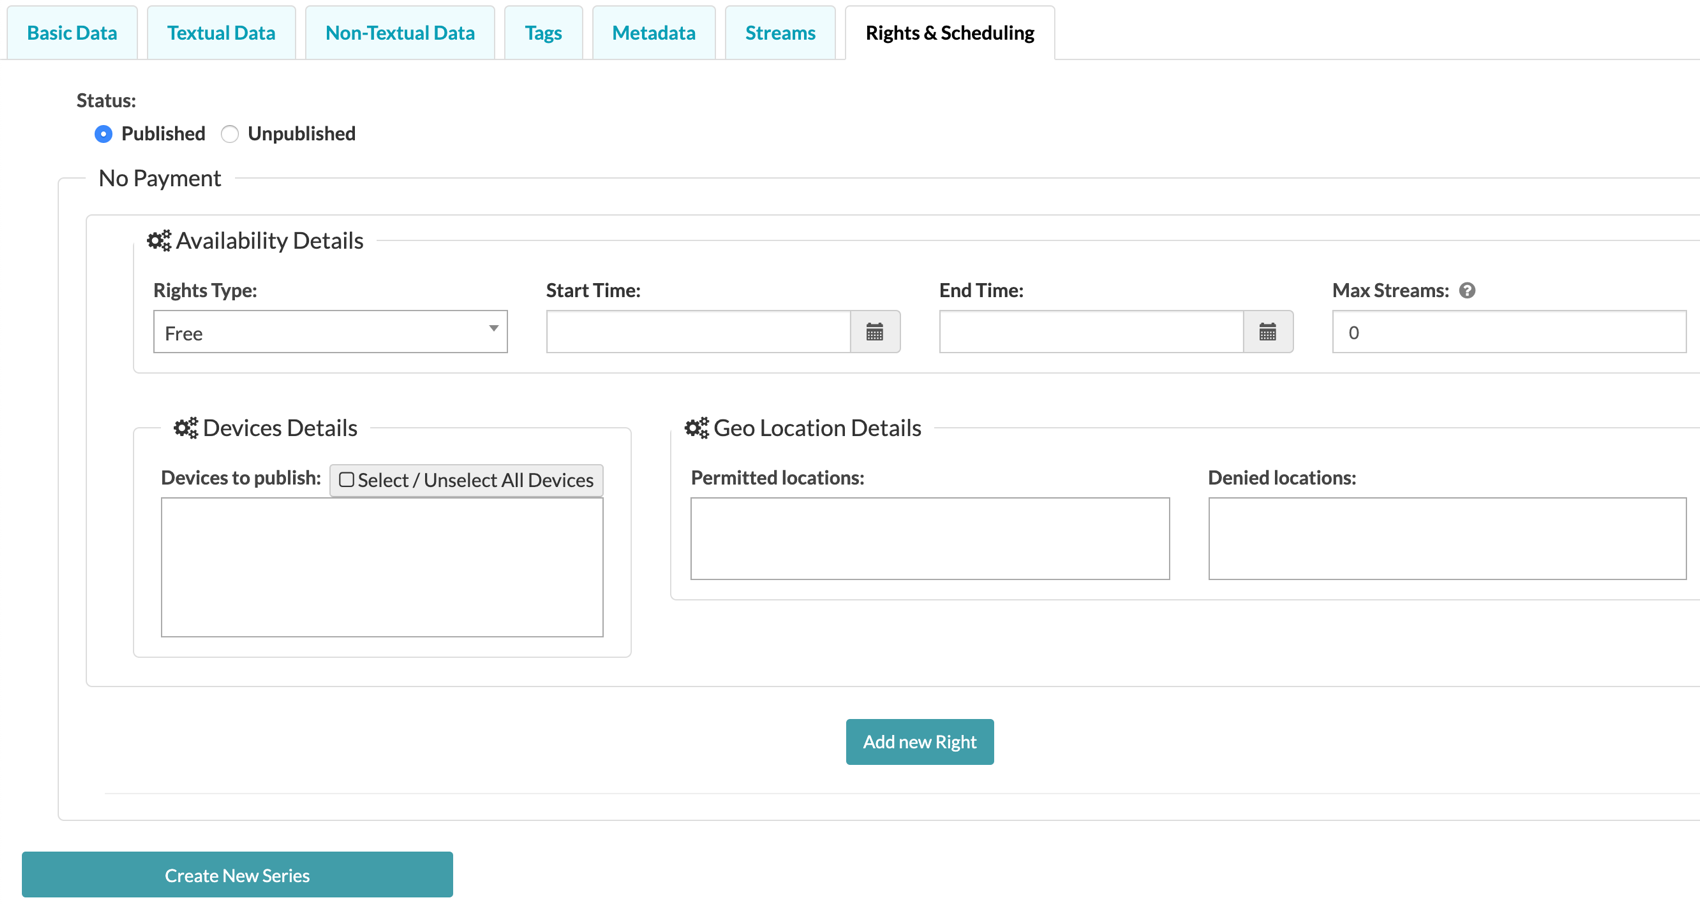
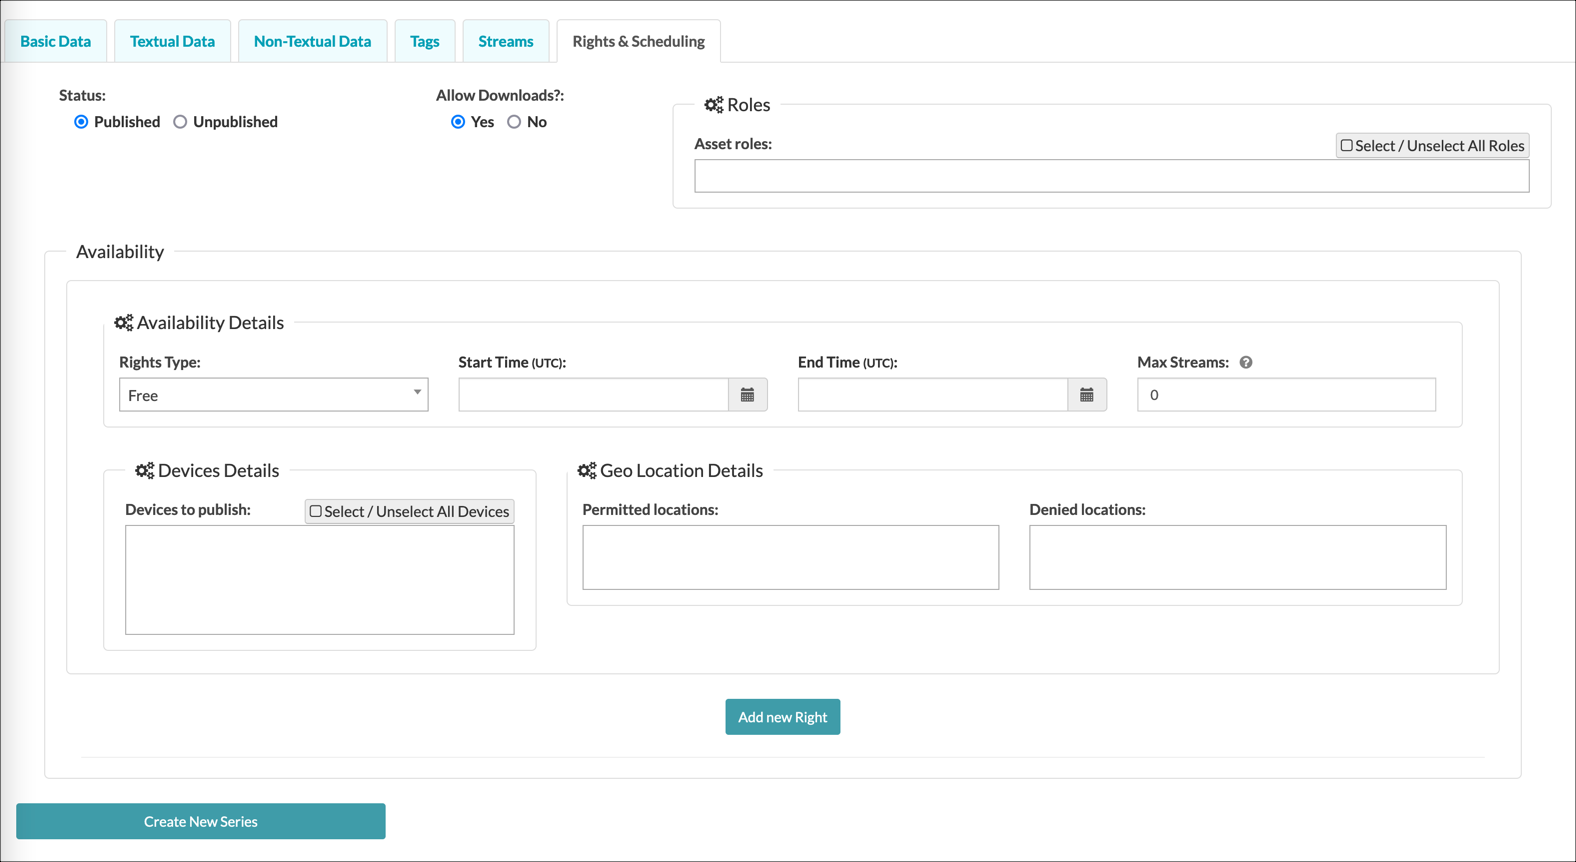
update series rights

diff --git a/_site/using-brightcove-beacon/series-seasons-episodes.html b/_site/using-brightcove-beacon/series-seasons-episodes.html
@@ -1138,6 +1138,20 @@ function doGTranslate(lang_pair) {if(lang_pair.value)lang_pair=lang_pair.value;i
                             </td>
                         </tr>
                         <tr>
+                          <td>Allow Downloads</td>
+                          <td>Yes</td>
+                          <td>
+                              Set to Yes to allow this series to be downloaded by the user for offline playback. For details, see the <a href="https://beacon-help.support.brightcove.com/media/offline-playback-beacon.html">Offline Playback with Brightcove Beacon Apps</a> document.
+                          </td>
+                        </tr>
+                        <tr>
+                          <td>Asset roles</td>
+                          <td>No</td>
+                          <td>
+                              Associate user roles with this series. Contact your account manager if you are interested in this feature. For details, see the <a href="/using-brightcove-beacon/roles-as-rights.html">Controlling Viewer Access with Roles</a> document.
+                          </td>
+                        </tr>
+                        <tr>
                             <td>Rights Type</td>
                             <td>Yes</td>
                             <td>
@@ -1563,7 +1577,7 @@ function doGTranslate(lang_pair) {if(lang_pair.value)lang_pair=lang_pair.value;i
 
 <hr>
 <div class="last-updated">
-  Page last updated on 19 Jun 2021
+  Page last updated on 14 Jul 2022
 </div>
 
 
